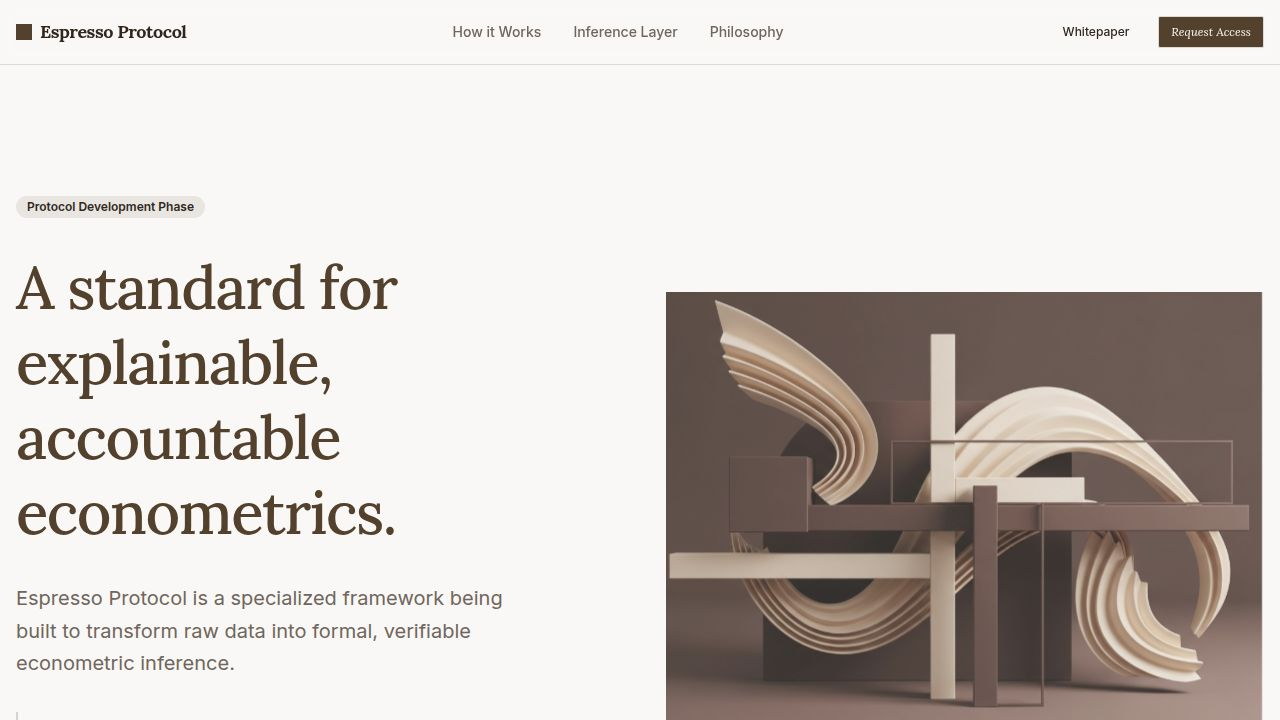
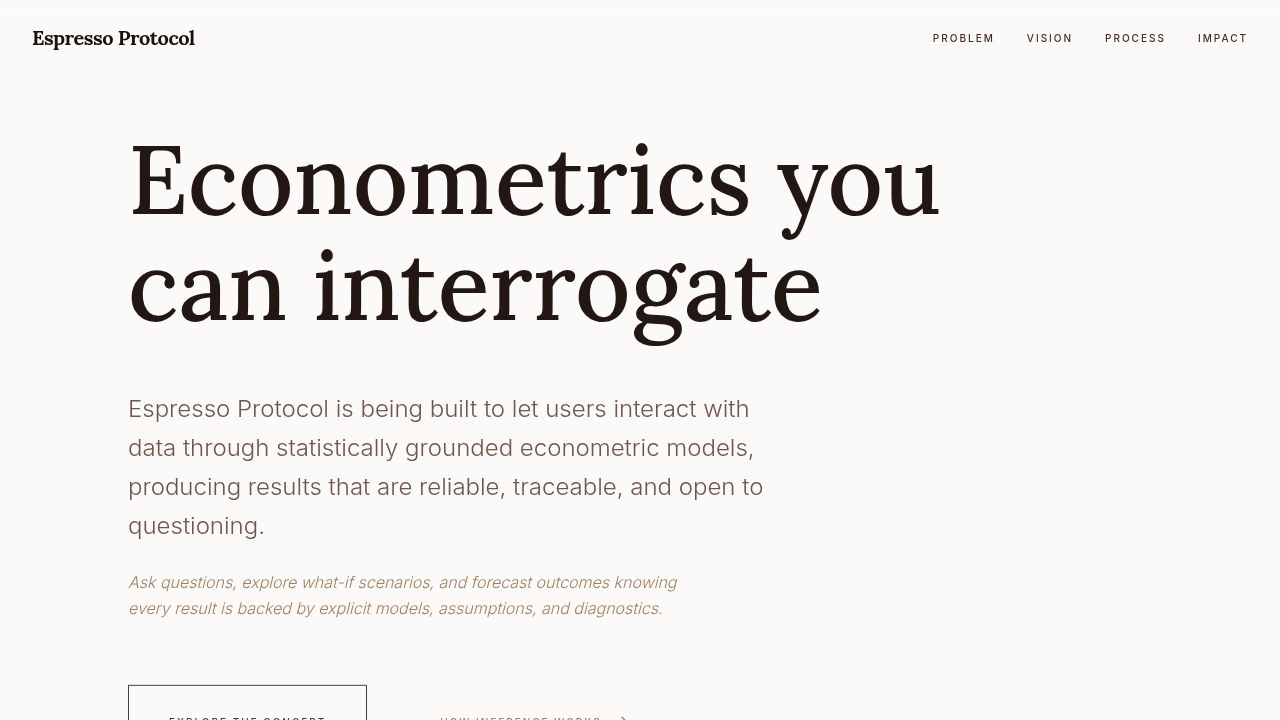
Update page design to use more white space and espresso brown accents
Adjust background colors from dark to off-white, update text colors, and modify link/accent colors within the Landing page component to enhance visual contrast and balance.

Replit-Commit-Author: Agent
Replit-Commit-Session-Id: fabfc8e5-c16c-4779-b737-aabb598627a7
Replit-Commit-Checkpoint-Type: full_checkpoint
Replit-Commit-Event-Id: 751a0b90-5cbd-4144-81f9-d165b68a0d9f
Replit-Commit-Screenshot-Url: https://storage.googleapis.com/screenshot-production-us-central1/7ad9adfe-cbbc-452d-9548-9dae110aa5b0/fabfc8e5-c16c-4779-b737-aabb598627a7/OBhygHl
Replit-Helium-Checkpoint-Created: true

diff --git a/client/src/pages/Landing.tsx b/client/src/pages/Landing.tsx
@@ -23,29 +23,29 @@ const ParallaxSection = ({ children, speed = 0.5, className = "", id = "" }: { c
 
 const Landing = () => {
   return (
-    <div className="bg-[#1a0f0a] text-[#f5f1ed] selection:bg-[#4a2c20] selection:text-white font-sans antialiased overflow-x-hidden">
+    <div className="bg-[#fcfaf9] text-[#1a0f0a] selection:bg-[#4a2c20] selection:text-white font-sans antialiased overflow-x-hidden">
       {/* Navigation */}
-      <nav className="fixed top-0 left-0 w-full z-50 px-8 py-6 flex justify-between items-center bg-gradient-to-b from-[#1a0f0a] to-transparent">
-        <div className="font-serif text-xl font-bold tracking-tight text-[#d7ccc8]">
+      <nav className="fixed top-0 left-0 w-full z-50 px-8 py-6 flex justify-between items-center bg-gradient-to-b from-[#fcfaf9] to-transparent">
+        <div className="font-serif text-xl font-bold tracking-tight text-[#1a0f0a]">
           Espresso Protocol
         </div>
-        <div className="hidden md:flex gap-8 text-[10px] uppercase tracking-[0.2em] font-medium text-[#a1887f]">
-          <a href="#problem" className="hover:text-[#f5f1ed] transition-colors" data-testid="link-nav-problem">Problem</a>
-          <a href="#vision" className="hover:text-[#f5f1ed] transition-colors" data-testid="link-nav-vision">Vision</a>
-          <a href="#process" className="hover:text-[#f5f1ed] transition-colors" data-testid="link-nav-process">Process</a>
-          <a href="#impact" className="hover:text-[#f5f1ed] transition-colors" data-testid="link-nav-impact">Impact</a>
+        <div className="hidden md:flex gap-8 text-[10px] uppercase tracking-[0.2em] font-medium text-[#4a2c20]">
+          <a href="#problem" className="hover:text-[#8b5e3c] transition-colors" data-testid="link-nav-problem">Problem</a>
+          <a href="#vision" className="hover:text-[#8b5e3c] transition-colors" data-testid="link-nav-vision">Vision</a>
+          <a href="#process" className="hover:text-[#8b5e3c] transition-colors" data-testid="link-nav-process">Process</a>
+          <a href="#impact" className="hover:text-[#8b5e3c] transition-colors" data-testid="link-nav-impact">Impact</a>
         </div>
       </nav>
 
       {/* Hero Section */}
-      <ParallaxSection speed={0.1} className="bg-[#1a0f0a]">
+      <ParallaxSection speed={0.1} className="bg-[#fcfaf9]">
         <div className="max-w-4xl">
           <motion.h1 
             initial={{ opacity: 0, y: 20 }}
             whileInView={{ opacity: 1, y: 0 }}
             viewport={{ once: true }}
             transition={{ duration: 1.2, ease: [0.22, 1, 0.36, 1] }}
-            className="text-5xl md:text-8xl font-serif font-medium leading-[1.1] mb-12 text-[#f5f1ed]"
+            className="text-5xl md:text-8xl font-serif font-medium leading-[1.1] mb-12 text-[#1a0f0a]"
             data-testid="text-hero-headline"
           >
             Econometrics you can interrogate
@@ -56,23 +56,23 @@ const Landing = () => {
             viewport={{ once: true }}
             transition={{ duration: 1.2, delay: 0.3, ease: [0.22, 1, 0.36, 1] }}
           >
-            <p className="text-xl md:text-2xl font-light text-[#d7ccc8] mb-6 max-w-2xl leading-relaxed" data-testid="text-hero-subheadline">
+            <p className="text-xl md:text-2xl font-light text-[#4a2c20] mb-6 max-w-2xl leading-relaxed" data-testid="text-hero-subheadline">
               Espresso Protocol is being built to let users interact with data through statistically grounded econometric models, producing results that are reliable, traceable, and open to questioning.
             </p>
-            <p className="text-sm md:text-base text-[#a1887f] mb-16 max-w-xl font-light leading-relaxed italic" data-testid="text-hero-supporting">
+            <p className="text-sm md:text-base text-[#8b5e3c] mb-16 max-w-xl font-light leading-relaxed italic" data-testid="text-hero-supporting">
               Ask questions, explore what-if scenarios, and forecast outcomes knowing every result is backed by explicit models, assumptions, and diagnostics.
             </p>
             <div className="flex flex-col sm:flex-row gap-8">
               <Button 
                 variant="outline" 
-                className="rounded-none border-[#4a2c20] bg-transparent text-[#f5f1ed] hover:bg-[#4a2c20] hover:text-white px-10 py-7 text-[10px] uppercase tracking-[0.2em] h-auto transition-all duration-500"
+                className="rounded-none border-[#1a0f0a] bg-transparent text-[#1a0f0a] hover:bg-[#1a0f0a] hover:text-[#fcfaf9] px-10 py-7 text-[10px] uppercase tracking-[0.2em] h-auto transition-all duration-500"
                 data-testid="button-explore-concept"
               >
                 Explore the concept
               </Button>
               <Button 
                 variant="ghost" 
-                className="rounded-none text-[#a1887f] hover:text-[#f5f1ed] hover:bg-transparent px-10 py-7 text-[10px] uppercase tracking-[0.2em] h-auto flex gap-3 items-center group transition-all"
+                className="rounded-none text-[#8b5e3c] hover:text-[#1a0f0a] hover:bg-transparent px-10 py-7 text-[10px] uppercase tracking-[0.2em] h-auto flex gap-3 items-center group transition-all"
                 data-testid="button-how-inference-works"
               >
                 How inference works <ArrowRight className="w-3 h-3 group-hover:translate-x-2 transition-transform" />
@@ -83,11 +83,11 @@ const Landing = () => {
       </ParallaxSection>
 
       {/* Problem Statement */}
-      <ParallaxSection id="problem" speed={0.08} className="bg-[#241712] border-y border-[#3a2a22]">
+      <ParallaxSection id="problem" speed={0.08} className="bg-[#1a0f0a] text-[#fcfaf9] border-y border-[#3a2a22]">
         <div className="grid md:grid-cols-2 gap-24 items-start">
           <div>
-            <span className="text-[10px] uppercase tracking-[0.4em] text-[#a1887f] font-bold block mb-12">The Fragility of Insight</span>
-            <h2 className="text-4xl md:text-5xl font-serif leading-tight text-[#f5f1ed]" data-testid="text-problem-statement">
+            <span className="text-[10px] uppercase tracking-[0.4em] text-[#d7ccc8] font-bold block mb-12">The Fragility of Insight</span>
+            <h2 className="text-4xl md:text-5xl font-serif leading-tight text-[#fcfaf9]" data-testid="text-problem-statement">
               Decisions depend on econometric analysis that is often fragile or difficult to interrogate.
             </h2>
           </div>
@@ -99,41 +99,41 @@ const Landing = () => {
               Decision makers cannot easily ask how results would change under different assumptions or specifications. Newer tools make interaction easier but blur the boundary between explanation and inference.
             </p>
             <p className="pt-12 border-t border-[#3a2a22]">
-              There is a missing layer between raw data and decision making: <span className="text-[#f5f1ed] font-normal italic">a transparent, interactive inference layer grounded in econometrics.</span>
+              There is a missing layer between raw data and decision making: <span className="text-[#fcfaf9] font-normal italic">a transparent, interactive inference layer grounded in econometrics.</span>
             </p>
           </div>
         </div>
       </ParallaxSection>
 
       {/* What We Are Building */}
-      <ParallaxSection id="vision" speed={0.12} className="bg-[#1a0f0a]">
+      <ParallaxSection id="vision" speed={0.12} className="bg-[#fcfaf9]">
         <div className="max-w-4xl">
-          <span className="text-[10px] uppercase tracking-[0.4em] text-[#a1887f] font-bold block mb-12">Architecture</span>
-          <h2 className="text-5xl md:text-7xl font-serif mb-16 text-[#f5f1ed]" data-testid="text-vision-headline">
+          <span className="text-[10px] uppercase tracking-[0.4em] text-[#8b5e3c] font-bold block mb-12">Architecture</span>
+          <h2 className="text-5xl md:text-7xl font-serif mb-16 text-[#1a0f0a]" data-testid="text-vision-headline">
             An attempt to formalize and expose the inference layer itself.
           </h2>
-          <div className="space-y-8 text-[#d7ccc8] text-xl font-light leading-relaxed">
+          <div className="space-y-8 text-[#4a2c20] text-xl font-light leading-relaxed">
             <p>
               Espresso Protocol is designed to standardize how econometric models are selected, validated, and interpreted, while allowing users to interact with those models directly.
             </p>
             <p>
-              The goal is not to simplify econometrics away, but to make correct inference <span className="text-[#f5f1ed] underline underline-offset-8 decoration-[#4a2c20]">usable, inspectable, and explorable.</span>
+              The goal is not to simplify econometrics away, but to make correct inference <span className="text-[#1a0f0a] underline underline-offset-8 decoration-[#d7ccc8]">usable, inspectable, and explorable.</span>
             </p>
           </div>
         </div>
       </ParallaxSection>
 
       {/* How It Works (Metaphors) */}
-      <div id="process" className="bg-[#1a0f0a]">
+      <div id="process" className="bg-[#fcfaf9]">
         {/* The Grind */}
-        <ParallaxSection speed={0.04} className="border-b border-[#241712]">
+        <ParallaxSection speed={0.04} className="border-b border-[#e5e0dd]">
           <div className="flex flex-col md:flex-row gap-16 md:gap-32">
             <div className="md:w-1/3">
-              <h3 className="text-6xl font-serif text-[#f5f1ed] mb-4" data-testid="text-step-grind-title">The Grind</h3>
-              <p className="text-[10px] uppercase tracking-[0.4em] text-[#a1887f] font-semibold">Data Structure</p>
+              <h3 className="text-6xl font-serif text-[#1a0f0a] mb-4" data-testid="text-step-grind-title">The Grind</h3>
+              <p className="text-[10px] uppercase tracking-[0.4em] text-[#8b5e3c] font-semibold">Data Structure</p>
             </div>
             <div className="md:w-2/3">
-              <p className="text-3xl font-light text-[#d7ccc8] leading-relaxed" data-testid="text-step-grind-description">
+              <p className="text-3xl font-light text-[#4a2c20] leading-relaxed" data-testid="text-step-grind-description">
                 Data is organized so time structure, units, panel dimensions, and transformations are explicit before modeling begins.
               </p>
             </div>
@@ -141,17 +141,17 @@ const Landing = () => {
         </ParallaxSection>
 
         {/* The Extraction */}
-        <ParallaxSection speed={0.04} className="bg-[#241712] border-b border-[#3a2a22]">
+        <ParallaxSection speed={0.04} className="bg-[#1a0f0a] text-[#fcfaf9] border-b border-[#3a2a22]">
           <div className="flex flex-col md:flex-row gap-16 md:gap-32">
             <div className="md:w-1/3">
-              <h3 className="text-6xl font-serif text-[#f5f1ed] mb-4" data-testid="text-step-extraction-title">The Extraction</h3>
-              <p className="text-[10px] uppercase tracking-[0.4em] text-[#a1887f] font-semibold">Model Choice</p>
+              <h3 className="text-6xl font-serif text-[#fcfaf9] mb-4" data-testid="text-step-extraction-title">The Extraction</h3>
+              <p className="text-[10px] uppercase tracking-[0.4em] text-[#d7ccc8] font-semibold">Model Choice</p>
             </div>
             <div className="md:w-2/3 space-y-10">
               <p className="text-3xl font-light text-[#d7ccc8] leading-relaxed" data-testid="text-step-extraction-description">
                 Appropriate econometric or time-series models are selected based on the data and question.
               </p>
-              <div className="grid grid-cols-2 gap-8 text-[10px] uppercase tracking-[0.3em] text-[#a1887f] pt-12">
+              <div className="grid grid-cols-2 gap-8 text-[10px] uppercase tracking-[0.3em] text-[#d7ccc8] pt-12">
                 <div className="border-l border-[#4a2c20] pl-6">Heteroskedasticity</div>
                 <div className="border-l border-[#4a2c20] pl-6">Multicollinearity</div>
                 <div className="border-l border-[#4a2c20] pl-6">Autocorrelation</div>
@@ -162,38 +162,38 @@ const Landing = () => {
         </ParallaxSection>
 
         {/* The Brew */}
-        <ParallaxSection speed={0.04} className="border-b border-[#241712]">
+        <ParallaxSection speed={0.04} className="border-b border-[#e5e0dd]">
           <div className="flex flex-col md:flex-row gap-16 md:gap-32">
             <div className="md:w-1/3">
-              <h3 className="text-6xl font-serif text-[#f5f1ed] mb-4" data-testid="text-step-brew-title">The Brew</h3>
-              <p className="text-[10px] uppercase tracking-[0.4em] text-[#a1887f] font-semibold">Statistical Inference</p>
+              <h3 className="text-6xl font-serif text-[#1a0f0a] mb-4" data-testid="text-step-brew-title">The Brew</h3>
+              <p className="text-[10px] uppercase tracking-[0.4em] text-[#8b5e3c] font-semibold">Statistical Inference</p>
             </div>
             <div className="md:w-2/3">
-              <p className="text-3xl font-light text-[#d7ccc8] leading-relaxed mb-12" data-testid="text-step-brew-description">
+              <p className="text-3xl font-light text-[#4a2c20] leading-relaxed mb-12" data-testid="text-step-brew-description">
                 Models are estimated using traceable statistical methods.
               </p>
-              <ul className="grid grid-cols-1 sm:grid-cols-2 gap-y-6 text-[#a1887f] font-light text-lg">
-                <li className="flex items-center gap-4"><span className="w-2 h-2 bg-[#4a2c20]" /> Coefficients & Forecasts</li>
-                <li className="flex items-center gap-4"><span className="w-2 h-2 bg-[#4a2c20]" /> Uncertainty Quantification</li>
-                <li className="flex items-center gap-4"><span className="w-2 h-2 bg-[#4a2c20]" /> Model Diagnostics</li>
-                <li className="flex items-center gap-4"><span className="w-2 h-2 bg-[#4a2c20]" /> Robustness Checks</li>
+              <ul className="grid grid-cols-1 sm:grid-cols-2 gap-y-6 text-[#8b5e3c] font-light text-lg">
+                <li className="flex items-center gap-4"><span className="w-2 h-2 bg-[#1a0f0a]" /> Coefficients & Forecasts</li>
+                <li className="flex items-center gap-4"><span className="w-2 h-2 bg-[#1a0f0a]" /> Uncertainty Quantification</li>
+                <li className="flex items-center gap-4"><span className="w-2 h-2 bg-[#1a0f0a]" /> Model Diagnostics</li>
+                <li className="flex items-center gap-4"><span className="w-2 h-2 bg-[#1a0f0a]" /> Robustness Checks</li>
               </ul>
             </div>
           </div>
         </ParallaxSection>
 
         {/* The Serve */}
-        <ParallaxSection speed={0.04} className="bg-[#241712]">
+        <ParallaxSection speed={0.04} className="bg-[#1a0f0a] text-[#fcfaf9]">
           <div className="flex flex-col md:flex-row gap-16 md:gap-32">
             <div className="md:w-1/3">
-              <h3 className="text-6xl font-serif text-[#f5f1ed] mb-4" data-testid="text-step-serve-title">The Serve</h3>
-              <p className="text-[10px] uppercase tracking-[0.4em] text-[#a1887f] font-semibold">Interactive Inference</p>
+              <h3 className="text-6xl font-serif text-[#fcfaf9] mb-4" data-testid="text-step-serve-title">The Serve</h3>
+              <p className="text-[10px] uppercase tracking-[0.4em] text-[#d7ccc8] font-semibold">Interactive Inference</p>
             </div>
             <div className="md:w-2/3 space-y-8">
               <p className="text-3xl font-light text-[#d7ccc8] leading-relaxed" data-testid="text-step-serve-description">
                 A language interface allows users to interrogate results, ask what-if questions, and explore alternative specifications. 
               </p>
-              <p className="text-base text-[#a1887f] italic bg-[#1a0f0a] p-8 border-l-2 border-[#4a2c20] leading-relaxed">
+              <p className="text-base text-[#d7ccc8] italic bg-[#241712] p-8 border-l-2 border-[#4a2c20] leading-relaxed">
                 Language is used to explain and navigate inference, not to generate results. All answers remain statistically computed.
               </p>
             </div>
@@ -202,9 +202,9 @@ const Landing = () => {
       </div>
 
       {/* What Makes This Different */}
-      <ParallaxSection speed={0.08} className="bg-[#1a0f0a] py-48 border-t border-[#241712]">
+      <ParallaxSection speed={0.08} className="bg-[#fcfaf9] py-48 border-t border-[#e5e0dd]">
         <div className="max-w-5xl">
-          <h2 className="text-4xl md:text-6xl font-serif mb-24 text-[#f5f1ed]" data-testid="text-different-headline">
+          <h2 className="text-4xl md:text-6xl font-serif mb-24 text-[#1a0f0a]" data-testid="text-different-headline">
             Designed around reliable econometric inference first, interaction second.
           </h2>
           <div className="grid sm:grid-cols-2 gap-16">
@@ -215,13 +215,13 @@ const Landing = () => {
               { icon: LineChart, text: "Open to interrogation and scenario analysis" }
             ].map((item, i) => (
               <div key={i} className="flex gap-8 items-start">
-                <item.icon className="w-8 h-8 text-[#a1887f] mt-1 shrink-0" strokeWidth={1.5} />
-                <p className="text-2xl font-light text-[#d7ccc8] leading-tight">{item.text}</p>
+                <item.icon className="w-8 h-8 text-[#8b5e3c] mt-1 shrink-0" strokeWidth={1.5} />
+                <p className="text-2xl font-light text-[#4a2c20] leading-tight">{item.text}</p>
               </div>
             ))}
           </div>
-          <div className="mt-32 pt-16 border-t border-[#241712]">
-            <p className="text-2xl md:text-3xl font-serif italic text-[#a1887f] leading-relaxed">
+          <div className="mt-32 pt-16 border-t border-[#e5e0dd]">
+            <p className="text-2xl md:text-3xl font-serif italic text-[#8b5e3c] leading-relaxed">
               "Interaction never replaces inference. It exposes it."
             </p>
           </div>
@@ -229,9 +229,9 @@ const Landing = () => {
       </ParallaxSection>
 
       {/* Use Cases */}
-      <section className="bg-[#241712] py-48 px-6 md:px-24">
+      <section className="bg-[#1a0f0a] text-[#fcfaf9] py-48 px-6 md:px-24">
         <div className="max-w-6xl mx-auto">
-          <span className="text-[10px] uppercase tracking-[0.4em] text-[#a1887f] font-bold block mb-24">Specific Use Cases</span>
+          <span className="text-[10px] uppercase tracking-[0.4em] text-[#d7ccc8] font-bold block mb-24">Specific Use Cases</span>
           <div className="grid md:grid-cols-2 gap-x-32 gap-y-24">
             {[
               { title: "Macroeconomic Forecasting", description: "Interactively explore forecasts while understanding how assumptions and model choices affect outcomes." },
@@ -240,8 +240,8 @@ const Landing = () => {
               { title: "Academic Research", description: "Run and interrogate models with full visibility into assumptions, diagnostics, and reproducibility." }
             ].map((useCase, i) => (
               <div key={i} className="group" data-testid={`card-use-case-${i}`}>
-                <h4 className="text-2xl font-serif text-[#f5f1ed] mb-6 group-hover:text-[#d7ccc8] transition-colors">{useCase.title}</h4>
-                <p className="text-base text-[#a1887f] leading-relaxed font-light">{useCase.description}</p>
+                <h4 className="text-2xl font-serif text-[#fcfaf9] mb-6 group-hover:text-[#d7ccc8] transition-colors">{useCase.title}</h4>
+                <p className="text-base text-[#d7ccc8] leading-relaxed font-light">{useCase.description}</p>
               </div>
             ))}
           </div>
@@ -249,9 +249,9 @@ const Landing = () => {
       </section>
 
       {/* Questions List */}
-      <ParallaxSection speed={0.06} className="bg-[#1a0f0a]">
+      <ParallaxSection speed={0.06} className="bg-[#fcfaf9]">
         <div className="max-w-4xl">
-          <span className="text-[10px] uppercase tracking-[0.4em] text-[#a1887f] font-bold block mb-16">The Interrogation</span>
+          <span className="text-[10px] uppercase tracking-[0.4em] text-[#8b5e3c] font-bold block mb-16">The Interrogation</span>
           <div className="space-y-16">
             {[
               "What is the appropriate econometric model for this data?",
@@ -260,9 +260,9 @@ const Landing = () => {
               "What happens under different scenarios?",
               "How stable is this relationship over time?"
             ].map((q, i) => (
-              <div key={i} className="flex gap-12 items-start border-b border-[#241712] pb-12 last:border-0" data-testid={`text-question-${i}`}>
-                <span className="text-[#4a2c20] font-serif italic text-3xl">0{i+1}</span>
-                <p className="text-3xl md:text-5xl font-serif text-[#d7ccc8] leading-[1.2]">{q}</p>
+              <div key={i} className="flex gap-12 items-start border-b border-[#e5e0dd] pb-12 last:border-0" data-testid={`text-question-${i}`}>
+                <span className="text-[#1a0f0a] font-serif italic text-3xl">0{i+1}</span>
+                <p className="text-3xl md:text-5xl font-serif text-[#4a2c20] leading-[1.2]">{q}</p>
               </div>
             ))}
           </div>
@@ -270,10 +270,10 @@ const Landing = () => {
       </ParallaxSection>
 
       {/* Intended Impact */}
-      <ParallaxSection id="impact" speed={0.04} className="bg-[#241712] border-y border-[#3a2a22]">
+      <ParallaxSection id="impact" speed={0.04} className="bg-[#1a0f0a] text-[#fcfaf9] border-y border-[#3a2a22]">
         <div className="max-w-4xl mx-auto text-center">
-          <span className="text-[10px] uppercase tracking-[0.4em] text-[#a1887f] font-bold block mb-16">Intended Impact</span>
-          <p className="text-4xl md:text-6xl font-serif text-[#f5f1ed] leading-tight mb-12" data-testid="text-impact-statement">
+          <span className="text-[10px] uppercase tracking-[0.4em] text-[#d7ccc8] font-bold block mb-16">Intended Impact</span>
+          <p className="text-4xl md:text-6xl font-serif text-[#fcfaf9] leading-tight mb-12" data-testid="text-impact-statement">
             Improving how people reason with data.
           </p>
           <p className="text-xl md:text-2xl text-[#d7ccc8] font-light leading-relaxed max-w-3xl mx-auto">
@@ -283,20 +283,20 @@ const Landing = () => {
       </ParallaxSection>
 
       {/* Footer */}
-      <footer className="bg-[#1a0f0a] py-48 px-6 md:px-24">
+      <footer className="bg-[#fcfaf9] py-48 px-6 md:px-24">
         <div className="max-w-6xl mx-auto flex flex-col items-center">
-          <p className="text-center font-serif text-3xl md:text-5xl text-[#f5f1ed] mb-24 max-w-3xl leading-snug" data-testid="text-closing-line">
+          <p className="text-center font-serif text-3xl md:text-5xl text-[#1a0f0a] mb-24 max-w-3xl leading-snug" data-testid="text-closing-line">
             Espresso Protocol is an ongoing effort to make econometric inference reliable, interactive, and usable where decisions truly matter.
           </p>
-          <div className="flex flex-col md:flex-row justify-between w-full pt-32 border-t border-[#241712] gap-16">
+          <div className="flex flex-col md:flex-row justify-between w-full pt-32 border-t border-[#e5e0dd] gap-16">
             <div>
-              <div className="font-serif text-2xl font-bold text-[#d7ccc8] mb-4">Espresso Protocol</div>
-              <p className="text-[10px] uppercase tracking-[0.4em] text-[#a1887f]">© 2026 Under Development</p>
+              <div className="font-serif text-2xl font-bold text-[#1a0f0a] mb-4">Espresso Protocol</div>
+              <p className="text-[10px] uppercase tracking-[0.4em] text-[#8b5e3c]">© 2026 Under Development</p>
             </div>
-            <div className="flex flex-wrap gap-12 text-[10px] uppercase tracking-[0.4em] font-medium text-[#a1887f]">
-              <a href="#" className="hover:text-[#f5f1ed] transition-colors">Privacy</a>
-              <a href="#" className="hover:text-[#f5f1ed] transition-colors">Terms</a>
-              <a href="#" className="hover:text-[#f5f1ed] transition-colors">Technical Brief</a>
+            <div className="flex flex-wrap gap-12 text-[10px] uppercase tracking-[0.4em] font-medium text-[#8b5e3c]">
+              <a href="#" className="hover:text-[#1a0f0a] transition-colors">Privacy</a>
+              <a href="#" className="hover:text-[#1a0f0a] transition-colors">Terms</a>
+              <a href="#" className="hover:text-[#1a0f0a] transition-colors">Technical Brief</a>
             </div>
           </div>
         </div>
